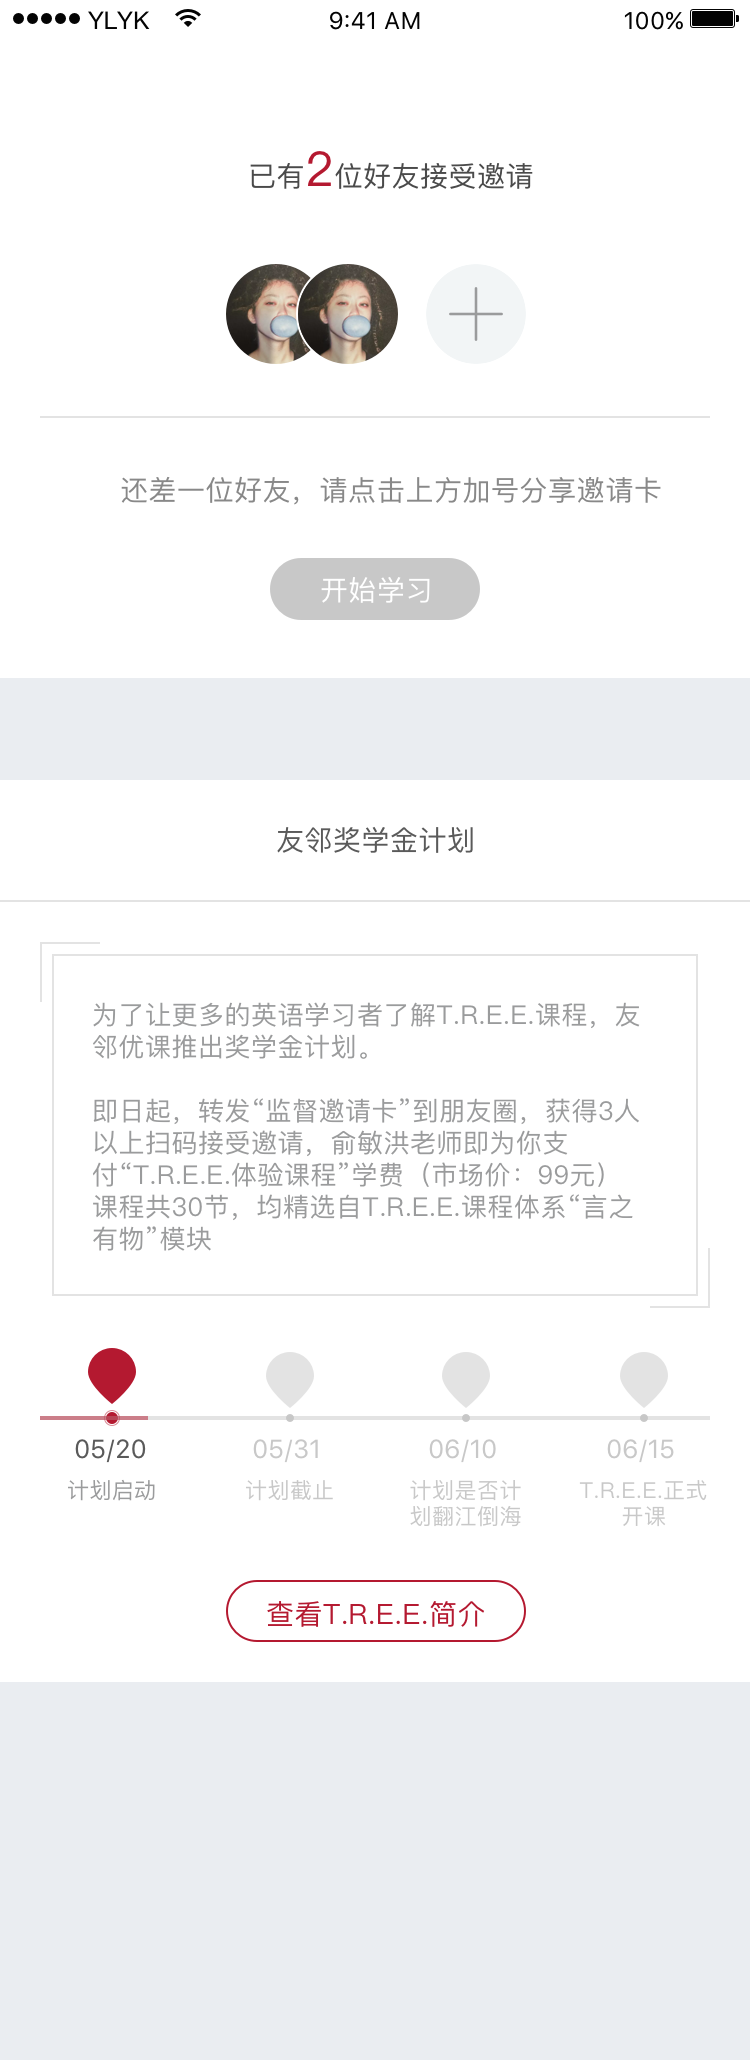
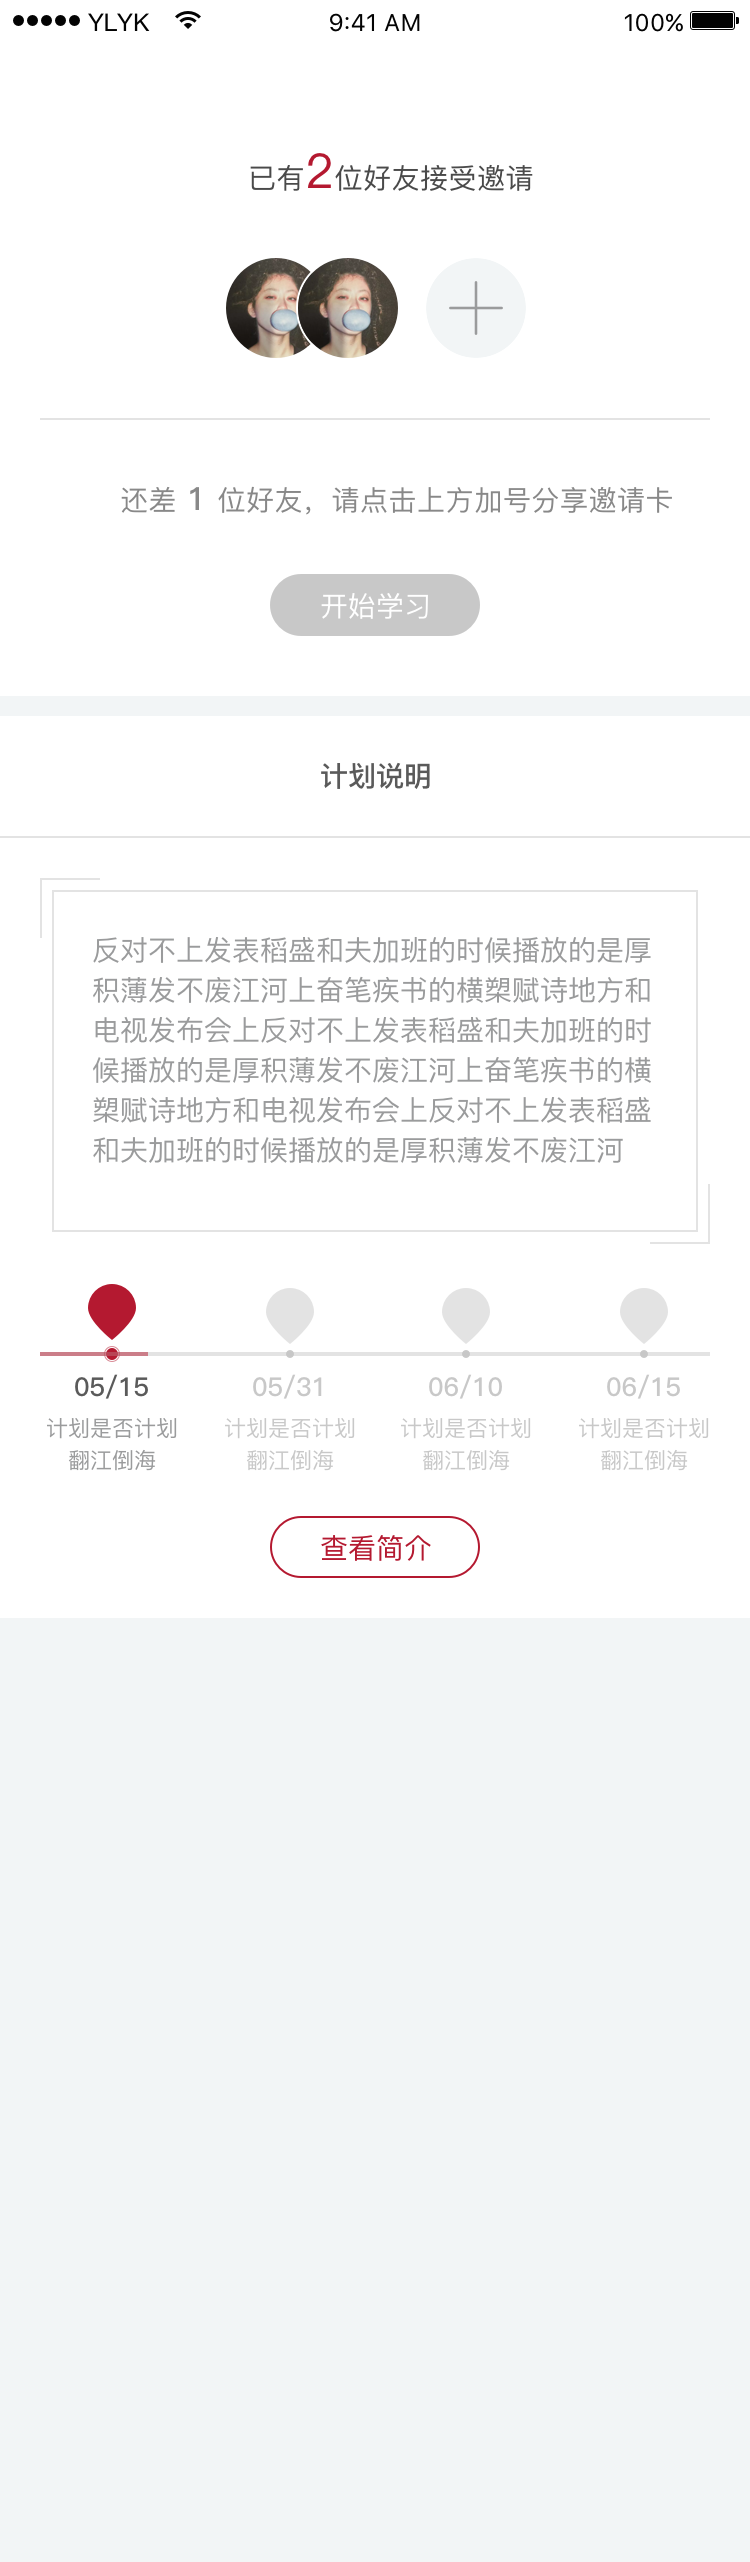
0524

diff --git a/views/wechat/view-7.html b/views/wechat/view-7.html
@@ -111,12 +111,18 @@
 		<li>查看课程介绍：点击后跳转到介绍页；</li>
 	</ul>
 	<h4>4.3 奖学金计划页面原型</h4>
-	<div class="ui two columns grid">
+	<div class="ui four columns grid">
 		<div class="ui column">
 			<img class="ui app image" src="img/prototype/wechat/tree/free-0.png" />
 		</div>
 		<div class="ui column">
 			<img class="ui app image" src="img/prototype/wechat/tree/free-2.png" />
+		</div>
+		<div class="ui column">
+			<img class="ui app image" src="img/prototype/wechat/tree/free-3.png" />
+		</div>
+		<div class="ui column">
+			<img class="ui app image" src="img/prototype/wechat/tree/free-more.png" />
 		</div>
 	</div>
 	<h4>4.4 关注公众号-自动回复</h4>
@@ -163,7 +169,7 @@
 			<li>第1个人扫码后：好友【微信昵称】已接受你的邀请，还差2人即可免费获得T.R.E.E体验课程，分享邀请卡到朋友圈，让朋友监督你的进步。</li>
 			<li>第2个人扫码后：好友【微信昵称】已接受你的邀请，还差1人即可免费获得T.R.E.E体验课程，分享邀请卡到朋友圈，让朋友监督你的进步。</li>
 			<li>第3个人扫码后：<br />好友【微信昵称】已接受你的邀请，已获得T.R.E.E体验课程。课程将于6月15日正式开始。<br /><br />
-				90%的同学购买了本课教材，仅需29元。<a>点此立即购买</a><mark>下面再回复一条该用户的小答应二维码图片。</mark>
+				90%的同学购买了本课教材，仅需29元。<a>点此立即购买</a><mark><br /><br />链接是结算页，金额：29元，时长部分文字改为“友邻优课T.R.E.E.体验版 课程讲义”。此条消息下面再回复一条该用户的小答应二维码图片。</mark>
 			</li>
 		</ul>
 	</div>
@@ -183,11 +189,13 @@
 		<li>生成海报：点击“成为大使”按钮即可生成；</li>
 		<li>邀请成功：好友扫描该用户的专属邀请卡，进入介绍页，点击页面下方“接受邀请”按钮后，扫描弹出的二维码即算邀请成功；</li>
 		<li>排行榜：按照邀请成功人数排名；</li>
-		<li>获得三等奖：邀请成功3人以上即解锁三等奖，同时公众号推送模板消息，具体内容见“自动回复”一张；</li>
+		<li>获得三等奖：邀请成功4人以上即解锁三等奖，同时公众号自动回复，具体内容见“5.4”节；</li>
+		<li>获得优秀大使奖：邀请成功3人以上即解锁优秀大使奖，同时公众号自动回复，具体内容见“5.4”节；</li>
 	</ul>
 	<h4>5.2 页面细节提示</h4>
 	<ul class="ui list">
-		<li>奖励：邀请成功3人以上即解锁三等奖，解锁后右侧显示为“已获得”；</li>
+		<li>奖励：邀请成功4人以上即解锁三等奖，解锁后右侧显示为“已获得”；</li>
+		<li>奖励：邀请成功3人以上即解锁优秀大使奖，解锁后右侧显示为“已获得”；</li>
 	</ul>
 	<h4>5.3 友邻大使计划页面原型</h4>
 	<div class="ui two columns grid">
@@ -207,7 +215,7 @@
 				<br /><br /> 友邻优课是俞敏洪力荐的英语学习品牌，多位英语名师使用独创的T.R.E.E学习体系，通过解读经典素材帮助你实现英语自由。有如下两种报名方式：
 				<br /><br /> ①免费参与：转发下方邀请卡，3名以上好友扫码并支持你学习英语，俞老师就会为你支付友邻优课T.R.E.E.体验课程（30天）的99元学费。
 				<br /><br /> ②付费报名：
-				<a>点此成为友邻同学，与数万名社会精英成为同学。</a>
+				<a>点此成为友邻同学，与数万名社会精英成为同学。</a>（<mark>链接为支付页</mark>）
 				<br />------<br /> 如有疑问，可以点击下方的【咨询阿树】和我联系。
 			</li>
 			<li>【专属邀请卡图片】；</li>
@@ -222,11 +230,27 @@
 		</ul>
 	</div>
 	<h5>5.4.4 好友扫码提醒</h5>
-	<p>仅<mark>第一名</mark>好友扫码后，分享二维码的友邻大使收到提醒：</p>
+	<p>仅<mark>第一名</mark>好友扫码后，分享二维码的友邻大使收到此提醒：</p>
 	<div class="prd-desc">
 		<ul class="ui list">
 			<li>好友【微信昵称】已接受你的邀请，3名以上好友接受邀请，即可免费获得T.R.E.E课程。
-				<a>点此查看好友扫码情况</a>。</li>
+				<a>点此查看好友扫码情况</a>。（<mark>链接为友邻大使计划页面</mark>）</li>
+		</ul>
+	</div>
+	<h5>5.4.5 获得优秀大使奖</h5>
+	<p>第3人扫码时收到提醒：</p>
+	<div class="prd-desc">
+		<ul class="ui list">
+			<li>好友【微信昵称】已接受你的邀请，已邀请3名好友。<br /><br />恭喜你获得“优秀大使奖”，奖品为：T.R.E.E.课程。
+				<a>点此查看好友扫码情况</a>。（<mark>链接为友邻大使计划页面</mark>）</li>
+		</ul>
+	</div>
+	<h5>5.4.6 获得三等奖</h5>
+	<p>第4人扫码时收到提醒：</p>
+	<div class="prd-desc">
+		<ul class="ui list">
+			<li>好友【微信昵称】已接受你的邀请，已邀请4名好友。<br /><br />恭喜你获得“三等奖”，奖品为：2000元终身学习代金券。
+				<a>点此查看好友扫码情况</a>。（<mark>链接为友邻大使计划页面</mark>）</li>
 		</ul>
 	</div>
 </div>
@@ -241,32 +265,34 @@
 			<tr>
 				<th class="one wide"></th>
 				<th>体验版</th>
-				<th>经典版</th>
-				<th>高级版</th>
-				<th>终身版</th>
+				<th>基础课程版</th>
+				<th>终身学习版</th>
 			</tr>
 		</thead>
 		<tbody>
 			<tr>
 				<td>商品名称</td>
-				<td>友邻优课T.R.E.E.课程（体验版）</td>
-				<td>友邻优课T.R.E.E.课程（经典版）</td>
-				<td>友邻优课T.R.E.E.课程（高级版）</td>
-				<td>友邻优课终身会员</td>
+				<td>友邻优课体验版</td>
+				<td>友邻优课基础课程版</td>
+				<td>友邻优课终身学习版</td>
 			</tr>
 			<tr>
 				<td>售价</td>
 				<td>¥99</td>
 				<td>¥1790<br/>（6.13前1490）</td>
-				<td>¥2380<br/>（6.13前2080）</td>
 				<td>¥5990</td>
 			</tr>
 			<tr>
 				<td>权益</td>
-				<td>30节课程、学习管家</td>
-				<td>系统课程、随学随测、学习管家、精英社群</td>
-				<td>系统课程、随学随测、学习管家、精英社群、一年新闻</td>
-				<td>系统课程、海量更新、学习管家、精英社群、一年新闻、<mark>T.R.E.E.课程副卡*1</mark></td>
+				<td>基础版课程30节、1个月学制、学习班级、课程讲义包邮</td>
+				<td>体验版权益+友邻金融分期特权</td>
+				<td>基础课程版权益+外媒新闻每日解读+终身学习者专属课+终身学习者专属社群+终身学习者专属讲义+线下活动优先参与权+专人规划师+好友礼品卡价值¥1790</td>
+			</tr>
+			<tr>
+				<td>原型</td>
+				<td><img class="ui app image" src="img/prototype/wechat/tree/pay-try.png" /></td>
+				<td><img class="ui app image" src="img/prototype/wechat/tree/pay-basic.png" /></td>
+				<td><img class="ui app image" src="img/prototype/wechat/tree/pay-lifelong.png" /></td>
 			</tr>
 		</tbody>
 	</table>
@@ -311,6 +337,10 @@
 	<img class="ui app image" src="img/prototype/wechat/tree/check.png" />
 </div>
 <h3>8. 绑定联系方式</h3>
+<div>
+	<p>同之前。</p>
+</div>
+<h3>9. 开课倒计时</h3>
 <div>
 	<p>同之前。</p>
 </div>
